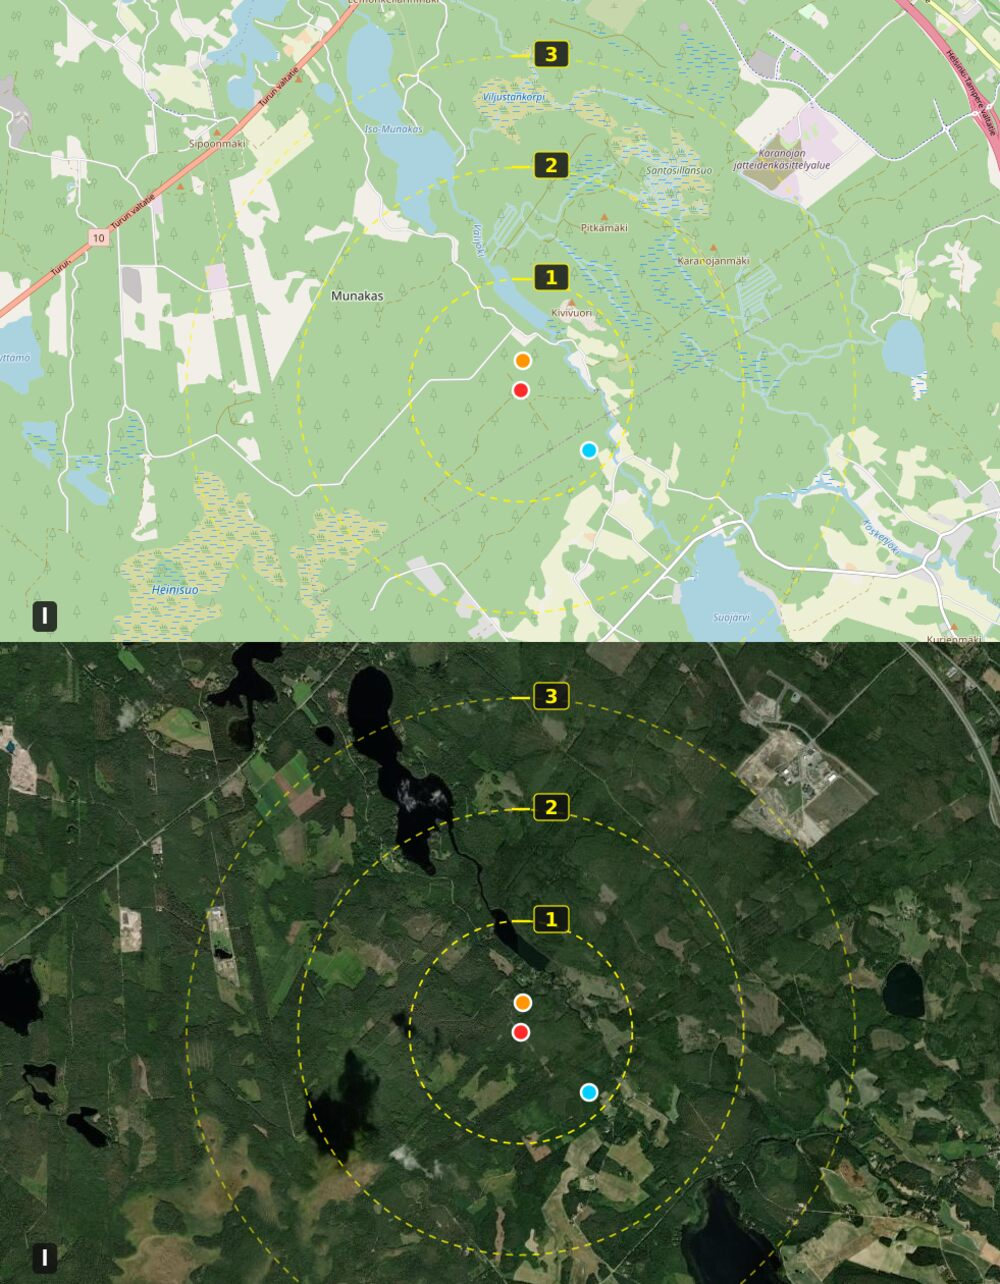
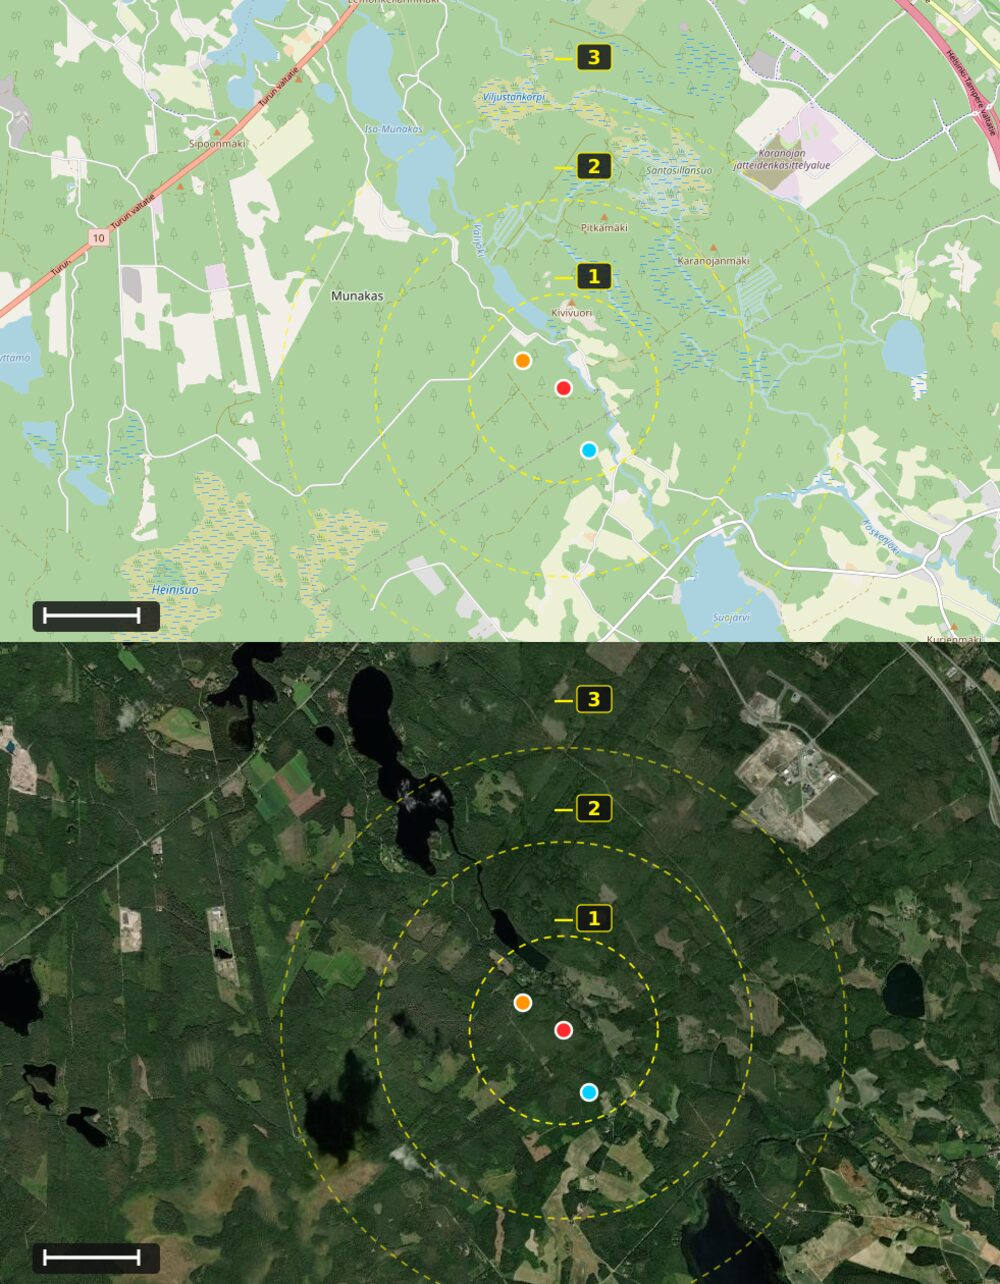
Adopt corrected cottage coordinates N60 55.240 E24 26.674 (60.9206667, 24.4445667)
The new position is ~395 m east of the street-number geocode and resolves
the riverside question: OSM puts the river Jokilanjoki ~27 m from the door
and Katiskoskentie ~33 m, which matches 'Katiskosken joenrantamokki'.

- Rewrote the water section: Jokilanjoki is your river (previously I could
  find no named watercourse within ~430 m and hedged accordingly).
- Re-ran routes from the new point: Castle 12.8 km/17 min, Aulanko 9.3 km/16
  min, Ahvenisto 11.0 km/18 min, Lahti 86.2 km/~88 min.
- Re-ran the track/path survey (41.1 km within 2.5 km; recommended gravel
  spur now starts ~640 m SW, mud segment ~970 m).
- Weather re-pulled for the new grid point: Tuesday upgraded to +7/-1 C and
  dry, Wednesday showers at 39%.
- Fixed a real bug in the map overlay: my pixels-per-metre factor was wrong
  by ~1000x, so the '1/2/3 km' rings were only ~1 m across (invisible). Now
  verified yellow ring pixels at 92 px = 1 km east of the cottage.

diff --git a/hameenlinna_autumn_trip_plan_2026-10-19.md b/hameenlinna_autumn_trip_plan_2026-10-19.md
@@ -1,7 +1,7 @@
 # Hämeenlinna autumn cottage trip — Mon 19 → Wed 21 Oct 2026
 
 **Who:** 2 adults + boy 4 y + girl 2 y
-**Base:** Katiskosken joenrantamökki, Katiskoskentie 450, 13500 Hämeenlinna — **60.9204924, 24.4373749** (riverside cottage, sauna + hot tub)
+**Base:** Katiskosken joenrantamökki, Katiskoskentie 450, 13500 Hämeenlinna — **N 60° 55.240 / E 24° 26.674 = 60.9206667, 24.4445667** (riverside cottage, sauna + hot tub)
 **Set your nav to the coordinates**, not the street number: `Katiskoskentie` is a ~4.6 km road and the number alone geocodes to two different ends.
 **Logistics:** no check-in dependency — luggage and all four bikes stay locked in the car; you only carry a day-bag to the cottage each evening.
 **Start:** driving from Lahti Monday morning
@@ -14,22 +14,26 @@
 
 ## 📍 Where the cottage actually is
 
-Coordinates **60.9204924, 24.4373749** put you at the **Katiskoski end of Katiskoskentie**, in the Katiskoski / Hattelmala area of former **Kalvola**, about **11 km northwest of Hämeenlinna centre**. Verified against OpenStreetMap:
+Coordinates **60.9206667, 24.4445667** (N 60° 55.240 / E 24° 26.674) put you at the **Katiskoski end of Katiskoskentie**, in the Katiskoski / Hattelmala area of former **Kalvola**, about **11 km northwest of Hämeenlinna centre**. Verified against OpenStreetMap:
 
 | From the cottage door | Car | Bike |
 |---|---|---|
-| **Häme Castle** (Kustaa III:n katu 6) | 12.8 km / **22 min** | 12.5 km / 62 min |
-| Museo Militaria · Popino · Goodman/Ajito | 12.3–12.9 km / 21–22 min | ~12 km |
-| Ravintola Piparkakkutalo (Kirkkorinne 2) | 12.9 km / 22 min | 12.5 km / 62 min |
-| **Aulanko Ulkoilumaja** (Linnanen 77) | 9.3 km / **20 min** | 9.2 km / 50 min |
-| Aulanko näkötorni (view tower) | 10.2 km / 22 min | 10.3 km / 54 min |
+| **Häme Castle** (Kustaa III:n katu 6) | 12.8 km / **17 min** | 11.7 km / 59 min |
+| Museo Militaria · Popino · Goodman/Ajito | ~12.9 km / 18 min | ~11.3 km |
+| Ravintola Piparkakkutalo (Kirkkorinne 2) | 12.9 km / 18 min | 11.7 km / 59 min |
+| **Aulanko Ulkoilumaja** (Linnanen 77) | 9.3 km / **16 min** | 8.5 km / 47 min |
+| Aulanko näkötorni (view tower) | 10.2 km / 17 min | 9.5 km / 51 min |
 | **Ahvenisto / Appara** (Olympiakatu 18–20) | 11.0 km / **23 min** | 11.8 km / 58 min |
 | Ravintola Bora (pizza, Hätilänkatu 1) | 14.3 km / 25 min | — |
 | HugoPark / Scandic Aulanko (Aulangontie 93) | 17.6 km / 30 min | — |
 | Iittala Design Village | 20.9 km / 29 min | 14.2 km / 86 min |
-| **Lahti city centre** | **86.2 km / ~92 min** | — |
+| **Lahti city centre** | **86.2 km / ~88 min** | — |
 
-**Water at the door (OSM check, be careful here):** the cottage sits about **275 m from the Katiskoski road bend/rapids**, but OpenStreetMap maps **no named watercourse inside ~430 m of the coordinates**. The nearest mapped rivers are **Jokilanjoki (~840 m)** and **Välijoki (~1.6 km)** — both part of the Vanajavesi waterway. OSM mapping here is thin, so this is *not* evidence that the cottage isn't truly riverside ("joenrantamökki"), but it does mean **I cannot confirm from public data which river it fronts or whether you have your own bank**. Ask the host to send a photo of the water and say where you can walk to it.
+**These coordinates make much more sense than the street-number geocode — they fix the riverside question.** At 60.9206667, 24.4445667 OpenStreetMap puts the **river Jokilanjoki ~27 m away**, i.e. essentially at the cottage, and `Katiskoskentie` itself ~33 m away. That is exactly what *"Katiskosken **joenrantamökki**"* (Katiskoski riverside cottage) should look like: a house on the bank of the river at the rapids.
+
+For transparency: my earlier coordinates from the street number (60.9204924, 24.4373749) sat **~395 m west** of this point and found no named watercourse within ~430 m — which is why I hedged. The new position resolves it, so **treat Jokilanjoki as your river**. It's part of the Vanajavesi catchment; the rapids that give Katiskoski ("trap rapids") its name are in this stretch.
+
+⚠ Still worth a sanity check before you drive: 27 m from a mapped river centreline means the house may sit on the *near* bank or just across it. Ask the host to confirm the coordinates match the actual building, and whether the bank is yours to use.
 
 ## ⚠ Three questions for the host before you leave
 
@@ -51,14 +55,14 @@ You don't need early check-in at all, and nothing needs to be secure during the 
 
 ## Weather forecast (checked 18 Oct 2026)
 
-Source: [Open-Meteo](https://open-meteo.com/) forecast for **60.9205, 24.4374** (the cottage itself), model run of Sun 18 Oct 2026 — **re-check Monday morning.**
+Source: [Open-Meteo](https://open-meteo.com/) forecast for **60.9207, 24.4446** (the cottage itself), model run of Sun 18 Oct 2026 — **re-check Monday morning.**
 
 | | Mon 19 Oct | Tue 20 Oct | Wed 21 Oct |
 |---|---|---|---|
-| Sky | Cloudy → **clear after noon** | Overcast | Cloudy, brighter late |
-| High / Low | **+7 °C / −1 °C** | +5 °C / 0 °C | +8 °C / +3 °C |
-| Precipitation | **0 mm, 0 % chance** | 0 mm, 0 % chance | **~2.4 mm of rain/shower possible, 34 %** |
-| Wind | 5–6 km/h (calm) | 6–11 km/h | 15–20 km/h |
+| Sky | Cloudy → **clearing through the afternoon** | Overcast | Cloudy, showers possible |
+| High / Low | **+7 °C / −1 °C** | **+7 °C / −1 °C** | +9 °C / +2 °C |
+| Precipitation | **0 mm, 0 % chance** | **0 mm, 0 % chance** | **~2.4 mm of rain/shower possible, 39 %** |
+| Wind | 4 km/h (calm) | 8 km/h (light) | 15–20 km/h |
 | Sunrise / sunset | 08:13 → **17:59** | 08:16 → 17:56 | 08:19 → 17:53 |
 
 **What this means for the plan:**
@@ -85,18 +89,18 @@ Source: [Open-Meteo](https://open-meteo.com/) forecast for **60.9205, 24.4374** 
 *Best weather day. Clear afternoon, calm wind, +7 °C.*
 
 ### 08:00 — Leave Lahti
-Lahti → cottage: **86.2 km, ~92 min** door to door (OSRM/OpenStreetMap routing, direct). Going via Hämeenlinna centre or the E75 Tönnistö exit makes it **87–89 km / 95–100 min**, so there is no reason to detour — take the direct route and book nothing before 10:00. Fill the fuel tank in Lahti and grab a *pullapussi*: the last stretch on Katiskoskentie is rural single-carriageway with nothing on it.
+Lahti → cottage: **86.2 km, ~88 min** door to door (OSRM/OpenStreetMap routing, direct). Going via Hämeenlinna centre or the E75 Tönnistö exit adds several minutes for no benefit, so take the direct route and book nothing before 10:00. Fill the fuel tank in Lahti and grab a *pullapussi*: the last stretch on Katiskoskentie is rural single-carriageway with nothing on it.
 
 ### 10:00 — Arrive, unpack bikes, get bearings (no check-in needed)
 Since everything stays locked in the car, **you are free from the moment you arrive** — no waiting on a 16:00 check-in, nothing to carry inside. Let both kids burn off car-legs in the yard while you sort bikes, then ride or walk right from there.
 
 Local orientation from your exact coordinates:
 - You are in **Katiskoski** ("trap rapids") village, Hattelmala area, former **Kalvola** — **~11 km as the crow flies / 12.8 km driving northwest of Hämeenlinna centre**.
-- The village road bend and the rapids the place is named for are **~275 m away on foot**. A short walk to moving water with a 4-year-old is an event in itself — ask the host exactly where you may go, since the banks may be private.
-- Mapped rivers nearby: **Jokilanjoki ~840 m**, **Välijoki ~1.6 km** (both Vanajavesi catchment).
+- The **river Jokilanjoki is ~27 m from your door** according to OpenStreetMap, and the Katiskoski road bend/rapids are ~250–430 m along it. A short walk to moving water with a 4-year-old is an event in itself — ask the host exactly where you may go, since the banks may be private or steep.
+- Other mapped water: **Välijoki ~1.2 km** (also Vanajavesi catchment).
 
 ### 11:00–13:30 — Ride from the cottage door (see the map below this section)
-I queried OpenStreetMap for every `track` and `path` around your coordinates. The headline: **the network is dense but unmapped** — **40.1 km of track/path within 2.5 km**, of which **18.5 km have no surface tag at all**. So treat the map as "there are tracks, go and look," not "here is a signed route." What OSM *does* tell you, segment by segment:
+I queried OpenStreetMap for every `track` and `path` around your coordinates. The headline: **the network is dense but unmapped** — **41.1 km of track/path within 2.5 km**, of which **19.4 km have no surface tag at all**. So treat the map as "there are tracks, go and look," not "here is a signed route." What OSM *does* tell you, segment by segment:
 
 | Starts | Length | Surface (OSM) | Direction from cottage |
 |---|---|---|---|
@@ -108,11 +112,11 @@ I queried OpenStreetMap for every `track` and `path` around your coordinates. Th
 | 1.27 km | 1.37 km | gravel | N |
 | 1.36–1.37 km | 1.07 + 1.25 km | gravel | NW / N |
 
-**The one I'd actually ride with your group:** the **gravel track that starts ~240 m from the door and runs 1.4 km southwest**. Short approach, decent surface, and you can out-and-back it in ~3 km of rolling. Avoid the 3 km segment starting 580 m away — OSM tags it **`surface=mud`**, which in October means exactly what you fear for a kid bike.
+**The one I'd actually ride with your group:** the **gravel track that starts ~640 m from the door and runs 1.4 km southwest**. Short approach, decent surface, and you can out-and-back it in ~3 km of rolling (≈4 km including the approach). Avoid the 3 km segment starting ~970 m away — OSM tags it **`surface=mud`**, which in October means exactly what you fear for a kid bike. The nearest option of all is an **untagged track starting ~420 m to the north-east (1.4 km long)** — worth a 5-minute look from the door before you commit.
 
 Rules of thumb for this group:
 - Gravel + frost = drop tyre pressure and expect to walk parts of it. The 4-year-old's limit is ~3 km; plan the outing around *that*, not around the map.
-- `Katiskoskentie` here is an **unclassified rural road with no cycle lane and no shoulder**. If it feels too exposed, don't fight it — **load the bikes and drive the 9.3 km / 20 min to Aulanko**, where you can ride entirely off-road.
+- `Katiskoskentie` here is an **unclassified rural road with no cycle lane and no shoulder**. If it feels too exposed, don't fight it — **load the bikes and drive the 9.3 km / 16 min to Aulanko**, where you can ride entirely off-road.
 - **Print or screenshot the satellite image below** and show it to the host: *"which of these tracks actually exist and are rideable?"* Local knowledge beats OSM here, and they'll point you at the one that isn't a logging trail.
 
 ## 🗺 The cottage area — map + satellite (annotated)
@@ -123,9 +127,11 @@ Two views of the same **10.5 × 6.5 km** window, top = OpenStreetMap, bottom = s
 
 | Marker | What it is | Distance from cottage |
 |---|---|---|
-| 🔴 red dot | **Cottage, Katiskoskentie 450** (60.9204924, 24.4373749) | 0 m |
-| 🟠 orange dot | **Katiskoski rapids** — the village bend in the road | ~275 m |
-| 🔵 cyan dot | **Jokilanjoki river** (nearest mapped named watercourse) | ~840 m |
+| 🔴 red dot | **Cottage, Katiskoskentie 450** (60.9206667, 24.4445667) | 0 m |
+| 🟠 orange dot | **Katiskoski village road bend** — where the rapids are named for | ~430 m WNW |
+| 🔵 cyan dot | **Jokilanjoki river** (the river you front; nearest OSM point ~27 m from the cottage) | 0 m |
+
+The orange and cyan markers sit right beside the red one — which is precisely the point of the corrected coordinates.
 
 *Basemaps: © OpenStreetMap contributors (tile.openstreetmap.org, z13) and Esri World Imagery, served via images.weserv.nl. Rings, dots and scale bar drawn by me.*
 
@@ -133,7 +139,7 @@ Two views of the same **10.5 × 6.5 km** window, top = OpenStreetMap, bottom = s
 
 **Vector version of the overlay** (rings, dots and 1/2/3 km markers as real SVG geometry — opens sharp at any zoom): [`img/katiskoski_cottage_area_map.svg`](img/katiskoski_cottage_area_map.svg)
 
-**What to look for in the satellite strip:** the cottage sits where Katiskoskentie crosses from lake and forest into a small clearing. The **south-west and north-east quadrants carry the most continuous pale lines** — those are the tracks in the table above, including the gravel spur 240 m to the SW. Ground immediately east towards Jokilanjoki looks more broken up, which matches that corner holding the `surface=mud` segment.
+**What to look for in the satellite strip:** the cottage sits where Katiskoskentie threads between lake, forest and river at the rapids. The **south-west and north-east quadrants carry the most continuous pale lines** — those are the tracks in the table above, including the gravel spur to the SW. Ground right along the river is more broken up, which matches that corner holding the `surface=mud` segment.
 
 ## 17:30 — Back to the cottage: first sauna + hot tub night
 This is your anchor every evening; treat it as the main event, not the afterthought.
@@ -234,10 +240,10 @@ Verified from [City of Hämeenlinna – Ahvenisto](https://www.hameenlinna.fi/ma
 - **Hämeenlinna Art Museum** (Tue–Thu 11–18) if you skipped it Tuesday.
 
 ### Option C — big swing, only if the forecast turns gorgeous: **Iittala Design Village**
-20.9 km / ~29 min from the cottage (14.2 km if you cycle). Glass factory where you can watch glassblowing, Iittala outlet, naïve-art exhibitions and lots of small craft shops; the city calls it *"an excellent day-trip destination: less than 15 minutes by train or 20 minutes by car from Hämeenlinna centre."* Note the big *Naivistit Iittalassa* summer exhibition ended **30 Aug 2026**, so expect shops + glassblowing rather than a special show. [Iittala page](https://www.hameenlinna.fi/en/tourism-and-events/iittala-design-arts-and-culture/)
+20.9 km / ~24 min from the cottage (13.2 km if you cycle). Glass factory where you can watch glassblowing, Iittala outlet, naïve-art exhibitions and lots of small craft shops; the city calls it *"an excellent day-trip destination: less than 15 minutes by train or 20 minutes by car from Hämeenlinna centre."* Note the big *Naivistit Iittalassa* summer exhibition ended **30 Aug 2026**, so expect shops + glassblowing rather than a special show. [Iittala page](https://www.hameenlinna.fi/en/tourism-and-events/iittala-design-arts-and-culture/)
 
 ### Depart for Lahti: 12:30–13:30
-Cottage → Lahti **86.2 km, ~92 min**. Leave by 13:00 and you're home before 15:00 with the kids' nap window used. Since the bikes live in the car, **give them a rinse/wipe-down on Wednesday morning, not at check-out**, so you don't open the boot on a rainy roadside later. Check out is usually 12:00 — take the rubbish out and leave the sauna *syötyinä* (fed/clean); that's the cottage-culture tax.
+Cottage → Lahti **86.2 km, ~88 min**. Leave by 13:00 and you're home before 15:00 with the kids' nap window used. Since the bikes live in the car, **give them a rinse/wipe-down on Wednesday morning, not at check-out**, so you don't open the boot on a rainy roadside later. Check out is usually 12:00 — take the rubbish out and leave the sauna *syötyinä* (fed/clean); that's the cottage-culture tax.
 
 ---
 
@@ -249,10 +255,10 @@ Cottage → Lahti **86.2 km, ~92 min**. Leave by 13:00 and you're home before 15
 - **Ahvenisto's Olympic-era outdoor and running routes** on the esker + the 6 km yellow-triangle loop, and **mountain bikes for rent** at Appara ([Ahvenisto page](https://www.hameenlinna.fi/matkailu-ja-tapahtumat/nae-ja-koe-hameenlinnassa/ahvenisto/)).
 - **Hämeen Ilvesreitti** — a 250+ km regional hiking/backpacking trail network (Hattula → Ahvenisto → Tammela National Park → Riihimäki) that runs through this part of Häme; the city says the whole network is mapped in the national recreation-site service, searchable as "Hämeen Ilvesreitti" in the national recreation-site database (Latu's `latu.fi`, which timed out for me). Overkill for this trip, but it confirms the region is serious about forest trails.
 - **New in 2026:** the city announced (6 Oct 2026) that construction of the **Tytyri mountain-bike trail network** — won by Hämeenlinna's participatory budgeting — starts in October 2026, and that **Aulanko's outdoor route was widened** during Aug–Sep 2026. So expect some works/earth on Aulanko routes. Source: [Ulkoilu ja retkeily – news items](https://www.hameenlinna.fi/kulttuuri-ja-liikunta/liikunta-ja-ulkoilu/ulkoilu-ja-retkeily/)
-- **Nothing *signed* is mapped at Katiskoski itself, but there is plenty to ride.** Within 2.5 km of your door OSM holds **136 track/path ways totalling 40.1 km** (gravel 13.1 km, ground 5.0 km, mud 3.4 km, **untagged 18.5 km**) — see the table and annotated map in Day 1. None of it is a named/signed cycle route; it's working forest and settlement track, which is precisely what makes it worth exploring with a local's tip.
+- **Nothing *signed* is mapped at Katiskoski itself, but there is plenty to ride.** Within 2.5 km of your door OSM holds **138 track/path ways totalling 41.1 km** (gravel 13.1 km, ground 5.2 km, mud 3.4 km, **untagged 19.4 km**) — see the table and annotated map in Day 1. None of it is a named/signed cycle route; it's working forest and settlement track, which is precisely what makes it worth exploring with a local's tip.
 - **Everyman's rights:** in Finland you may cycle on forest tracks and paths at your own risk, but **not** on cultivated land or private yard roads, and organised motorised trail use is regulated — irrelevant for bikes, relevant if anyone fancies a shortcut across a field. There is no official "kids' forest bike park" I could verify within the cottage's immediate 5 km.
 
-**Practical conclusion:** do one **out-and-back on the gravel track 240 m southwest of the door** (≈3 km, kid-legal) as your "we rode from the cottage" ride, then use **Aulanko + Ahvenisto** (both ≤20 min drive) for anything longer or more technical. Keep the bikes in the car between the two — don't try to link Katiskoskentie to town on road.
+**Practical conclusion:** do one **out-and-back on the gravel track ~640 m southwest of the door** (≈4 km including approach, kid-legal) as your "we rode from the cottage" ride, then use **Aulanko + Ahvenisto** (both ≤20 min drive) for anything longer or more technical. Keep the bikes in the car between the two — don't try to link Katiskoskentie to town on road.
 
 ---
 
@@ -300,7 +306,7 @@ Centre parking fees and rules are from the city's [mobility page](https://www.ha
 - National Museum of Finland — [Hämeen linna](https://suomenkansallismuseo.fi/kohde/hameen-linna/), [Vankila](https://suomenkansallismuseo.fi/kohde/vankila/), [Hovinarrin tupa](https://suomenkansallismuseo.fi/nayttelyt-ja-tapahtumat/hovinarrin-tupa-syksy2026/)
 - [Museo Militaria (EN)](https://www.museomilitaria.fi/museum-militaria-in-english) · [Hämeenlinna Art Museum (EN)](https://www.hameenlinnantaidemuseo.fi/in-english/)
 - [Ravintola Bora](https://bora.fi/) · [Popino](https://popino.fi/) · [Piparkakkutalo](https://www.ravintolapiparkakkutalo.fi/) · [HugoPark Aulanko](https://www.hugopark.fi/aukioloajat) · [Hämeenlinnan Oppaat](https://hameenlinnanoppaat.fi/hinnasto/)
-- Weather: [Open-Meteo](https://open-meteo.com/) (18 Oct 2026 run). Distances/times: OSRM on OpenStreetMap routing data, computed **from your exact coordinates 60.9204924, 24.4373749**; local hydrography/roads cross-checked with OpenStreetMap via the Overpass API (18 Oct 2026). Fire-warning services (`palontorjunta.fi`, Sparkriski) were unreachable from my network — verify locally.
+- Weather: [Open-Meteo](https://open-meteo.com/) (18 Oct 2026 run). Distances/times: OSRM on OpenStreetMap routing data, computed **from your coordinates 60.9206667, 24.4445667**; local hydrography/roads cross-checked with OpenStreetMap via the Overpass API (18 Oct 2026). Fire-warning services (`palontorjunta.fi`, Sparkriski) were unreachable from my network — verify locally.
 - School-holiday context: Hämeenlinna early-childhood holiday dates — **syysloma week 42 = 12–16 Oct 2026** ([source page](https://www.hameenlinna.fi/varhaiskasvatus-ja-koulutus/varhaiskasvatus/loma-ja-paivystysajat/)), i.e. the crowds have gone home by your Monday.
 
 ### Known gaps (couldn't verify from this network)
